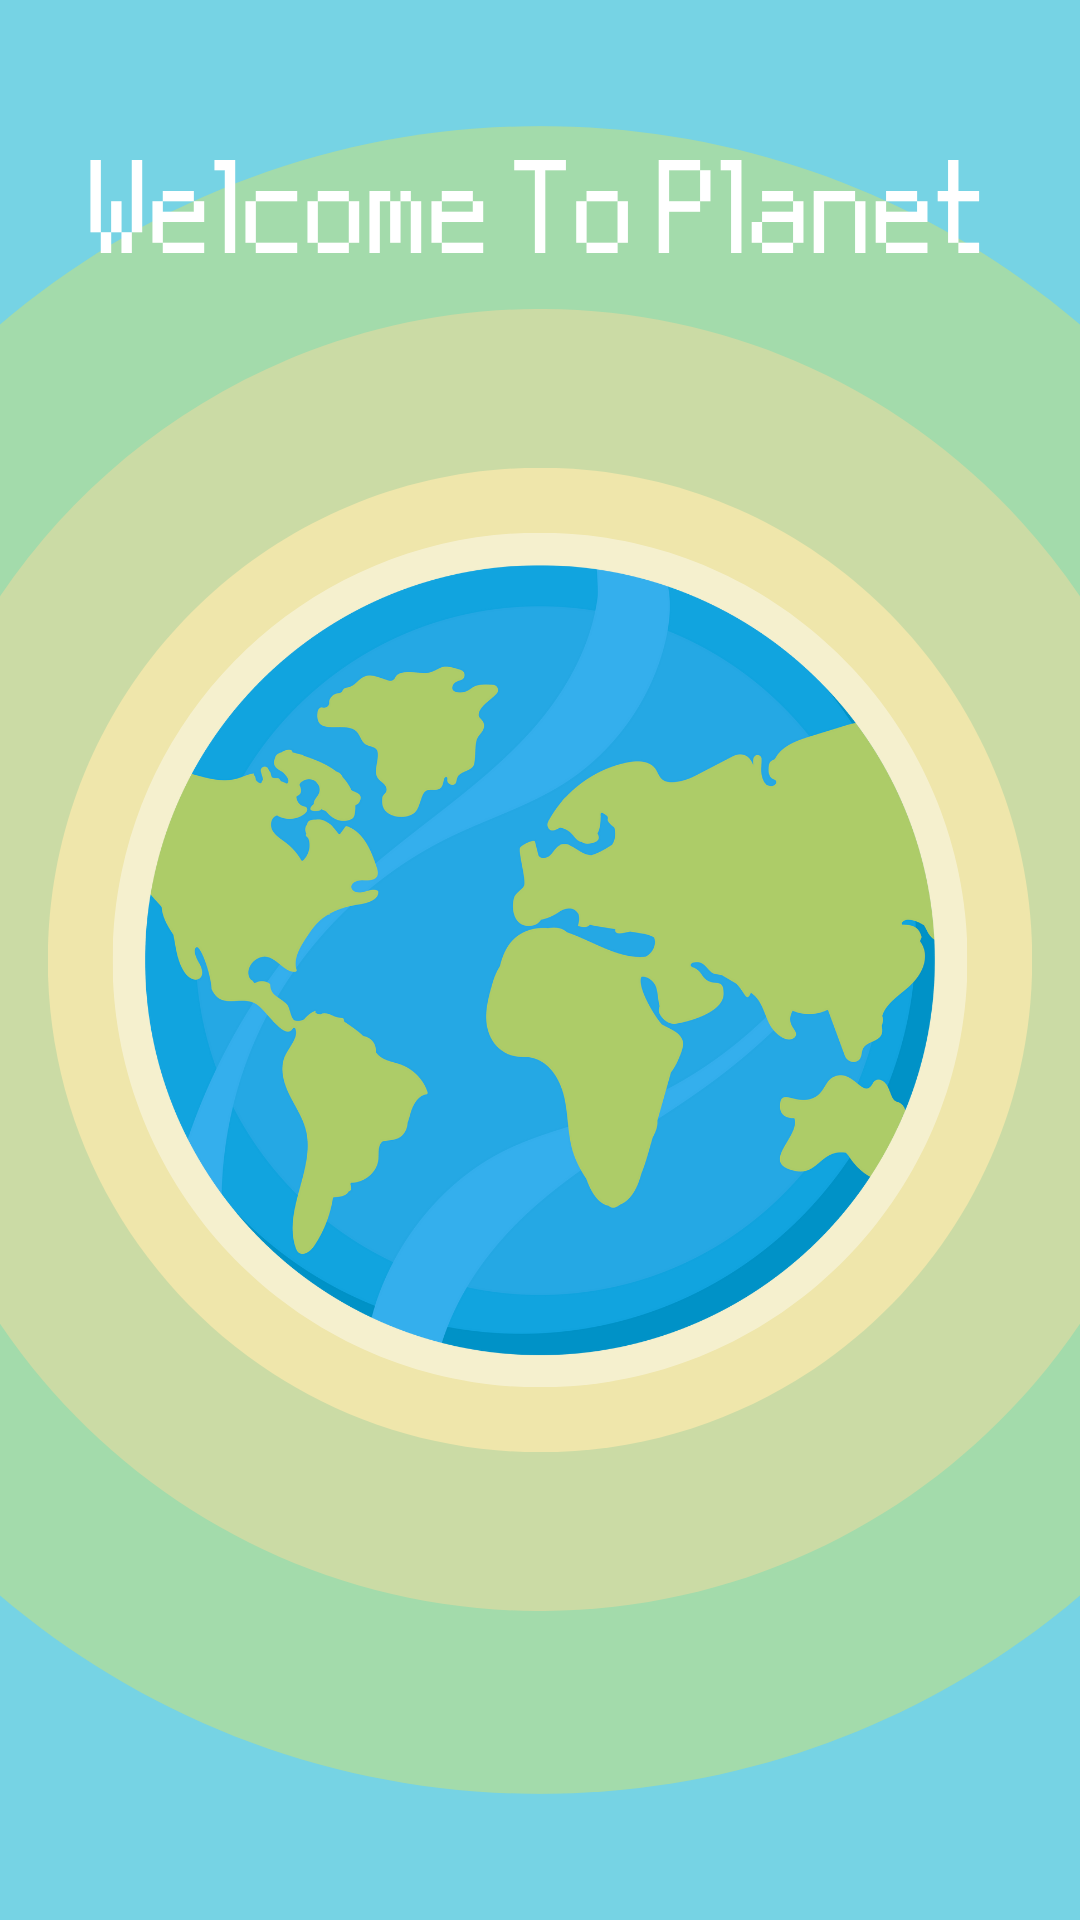
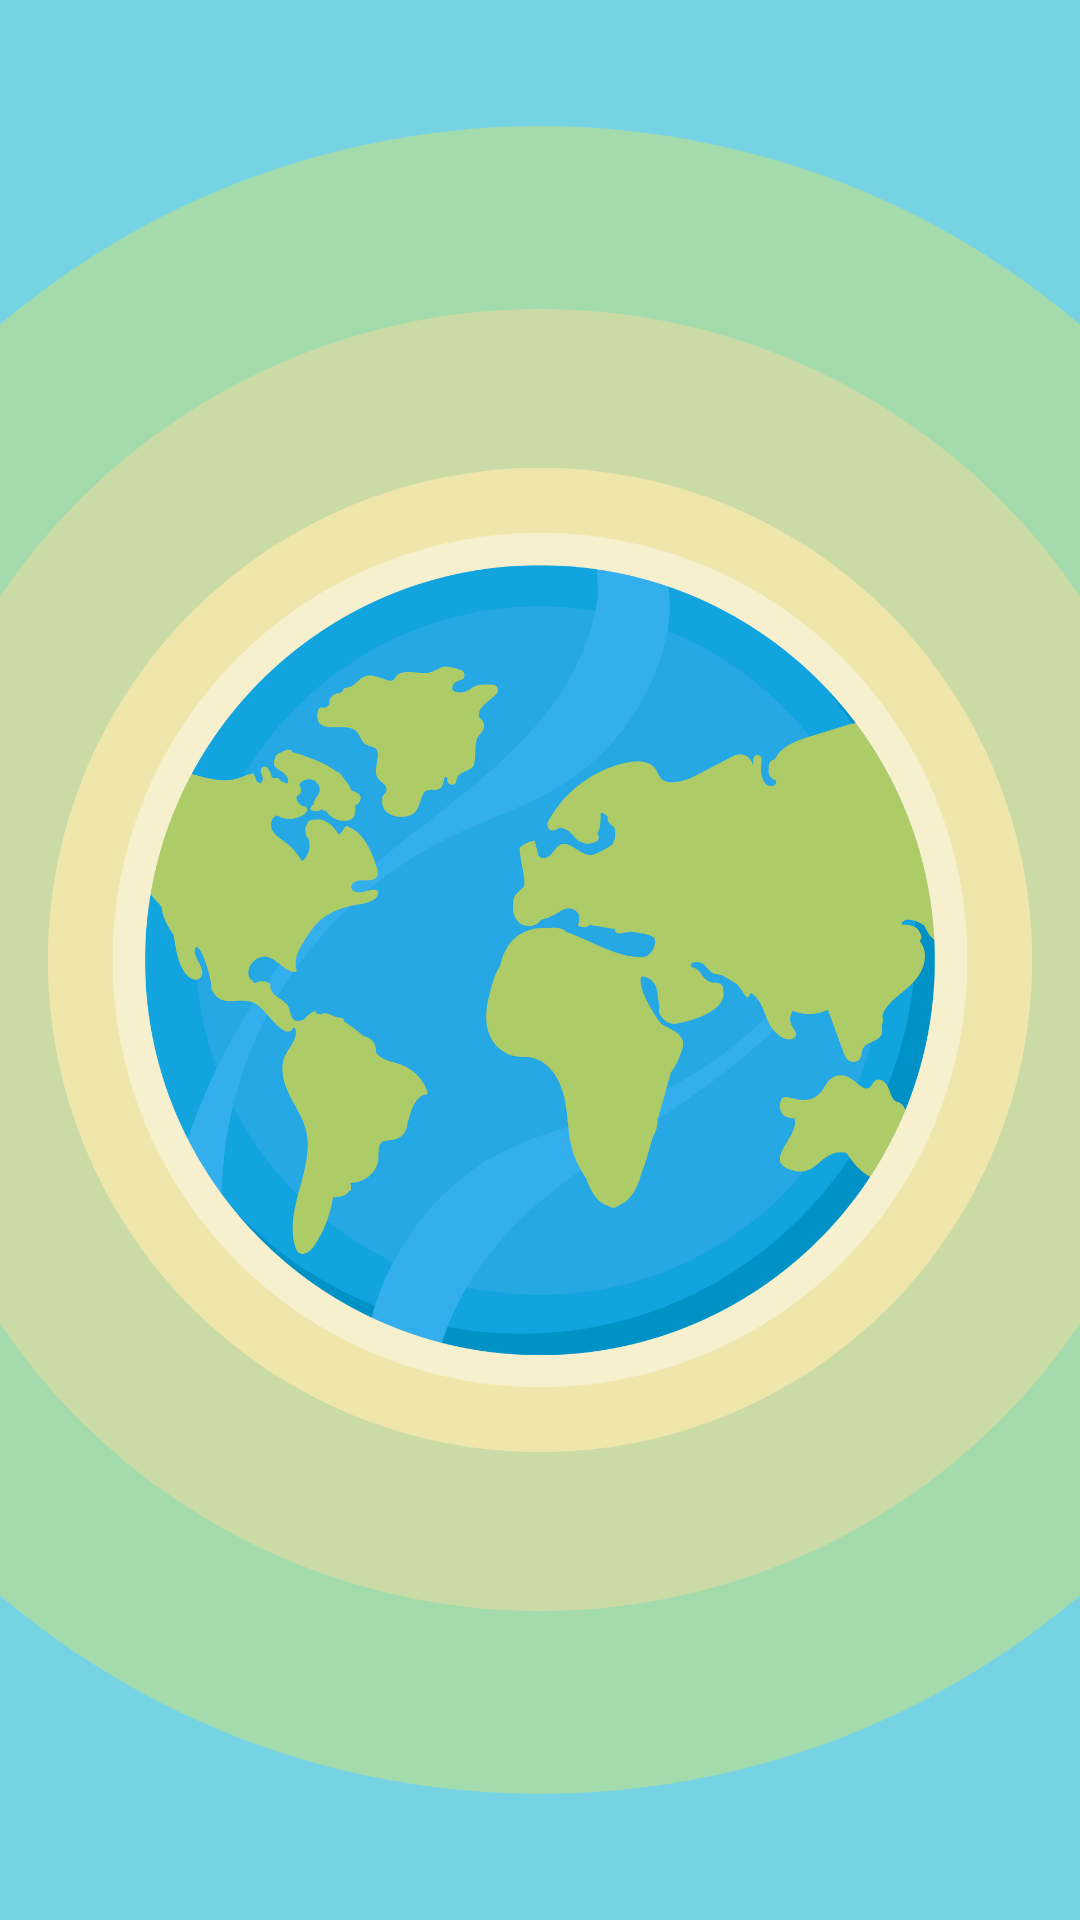
Changes based on health

Changed region(s): [[0.0611, 0.0625, 0.4583, 0.1562], [0.6111, 0.0625, 0.9167, 0.1562], [0.4889, 0.0625, 0.5806, 0.1562]]

diff --git a/pages/MainScreen.js b/pages/MainScreen.js
@@ -2,14 +2,23 @@ import React, { useState, useEffect } from "react";
 import { ImageBackground, StyleSheet, View, Text, Button } from "react-native";
 
 export default function MainScreen() {
+    const [health, setHealth] = useState(100);
+    const [backgroundImage, setBackgroundImage] = useState(require("../resources/9.png"));
+
+    const updateHealthImage = (currentHealth) => {
+        if (currentHealth >= 80) return require("../resources/9.png");
+        else if (currentHealth >= 60) return require("../resources/7.png");
+        else if (currentHealth >= 40) return require("../resources/5.png");
+        else if (currentHealth >= 20) return require("../resources/3.png");
+        else return require("../resources/1.png");
+    };
+
+    useEffect(() => {
+        setBackgroundImage(updateHealthImage(health));
+    }, [health]);
+
     return (
-        <ImageBackground
-            source = {require("../resources/5.png")}
-            style = {styles.background}
-            resizeMode = "cover"
-        >
-        </ImageBackground>
-    );
+        <ImageBackground source = {backgroundImage} style = {styles.background} resizeMode = "cover"></ImageBackground>);
 }
 
 const styles = StyleSheet.create({
